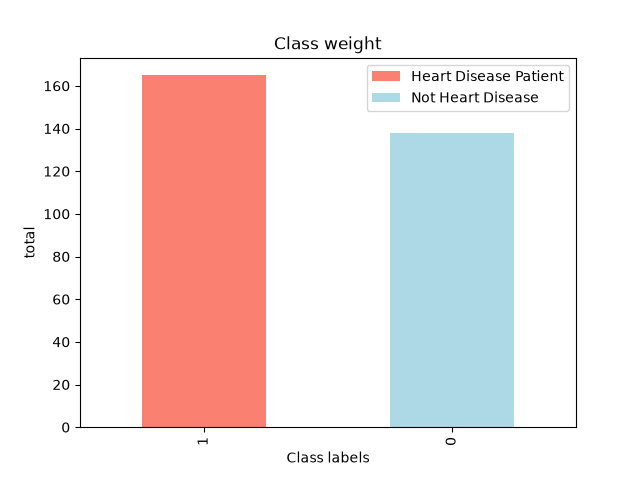
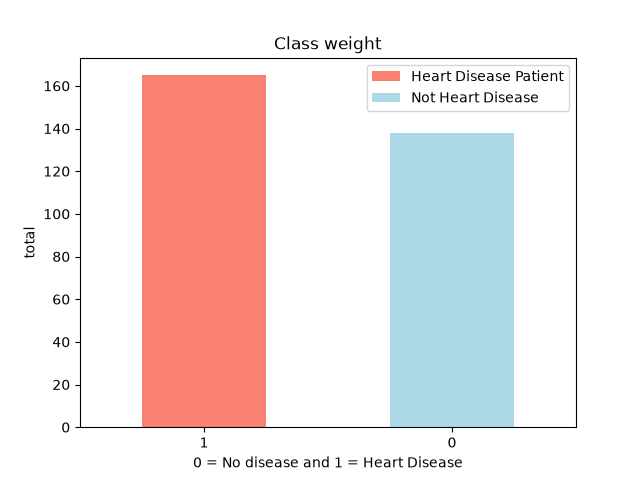
modified the readme docs and updated the ploting images

Changed region(s): [[0.3125, 0.9062, 0.7188, 1.0]]

diff --git a/Readme.md b/Readme.md
@@ -4,6 +4,9 @@
 
 1. [Installation Guide](#Installation)
 2. [About The Project](#About)
+3. [Data Insights](#Data-Insights)
+   * [1.1 Heart disease total cases](#1.1-Heart-disease-total-cases)
+   * [1.2 Heart Disease Gender based frequence](#1.2-Heart-Disease-Gender-based-frequence)
 
 ## Installation
 
@@ -34,6 +37,23 @@ This project is a **machine learning practice project** focused on building an e
 The project is built primarily to strengthen my understanding and practical implementation of the **complete machine learning workflow**, including data preprocessing, exploratory data analysis, model training, evaluation, and hyperparameter tuning.
 
 The dataset and problem are based on an existing heart disease prediction task. **I did not create the underlying medical dataset or invent the problem; this project is my own implementation and practice exercise using an existing dataset.**
+
+## Data Insights
+
+Exploratory Data Analysis is the important part of the machine learning. As just training and evaluating the Machine learning is not just a way to get the best Model. 
+
+The ML Engineer must also have the knowledge about the data below are some of the insights i caught from the data to find the pattern's bettween the data
+
+#### 1.1 Heart disease total cases 
+> **Purpose** : based on the below graph we can identify the class imbalancing in the data set that we have.
+
+![Class weight Graph](images/eda/class_weight_graph.png)
+
+
+#### 1.2 Heart Disease Gender based frequence
+> **Purpose** : Based on the below graph we can identify the ratio of the male and female of having the heart disease.
+
+![Gender Based frequency](images/eda/gender_based_heart_disease_analysis.png)
 
 ## Important Disclaimer
 
